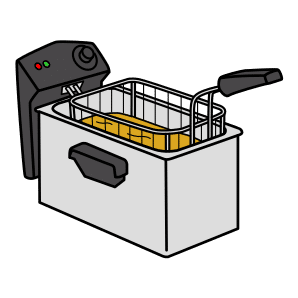
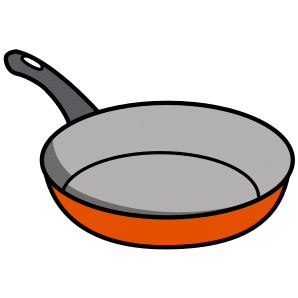
Spelling: fix Spell It third-letter speech, voice the prompt up front
Spell It had Free Play's old bug: completing a word fired the chime and
spoken word the instant the third letter was pressed, cancelling that
letter's speech. Hold a 950ms beat before celebrating, same as Free Play,
so the final letter is heard first.

The prompt now says the word, spells it, and says it again on round start
(speakWordThenSpell) instead of just naming the word — the letters come
with the prompt, not a timed reminder. Tap the picture to replay it all,
like Clock's tappable face, with a gentle pulse for feedback.

Also: add a 🐝 to the Spelling home tile so it shows three icons like the
other games, and swap the "pan" picture from a deep fryer to a proper
frying pan (ARASAAC 2558).

diff --git a/scripts/spelling-page.js b/scripts/spelling-page.js
@@ -547,15 +547,22 @@ function completeSpell(target) {
   hint.stop();
   saveRoundState(SPELL_STATE_KEY, null);
   renderSlots();
-  audio.playChime();
-  speakText(target.toLowerCase(), { rate: 0.85 });
-  showCelebrationEmojis();
-  spawnConfetti();
   session.mutateStats(function(stats) {
     stats.spellCorrect += 1;
     stats.usedSpell = true;
   });
-  resetTimer = window.setTimeout(startSpellRound, 2200);
+  // The third letter was just spoken like the first two. Celebrating right away
+  // would cancel that letter's speech (the child never hears it), so hold a beat
+  // first — the same treatment as Free Play — THEN chime, confetti, and say the
+  // whole word.
+  resetTimer = window.setTimeout(function() {
+    resetTimer = null;
+    audio.playChime();
+    speakText(target.toLowerCase(), { rate: 0.85 });
+    showCelebrationEmojis();
+    spawnConfetti();
+    resetTimer = window.setTimeout(startSpellRound, 2200);
+  }, 950);
 }
 
 function startSpellRound() {
@@ -583,7 +590,9 @@ function startSpellRound() {
   spellPicture.setAttribute('aria-hidden', 'false');
   renderSlots();
   spellHint.textContent = 'Spell the word!';
-  speakText(target.toLowerCase(), { rate: 0.85 });
+  // Say the word, spell it, say it again — the letters come with the prompt, not
+  // a timed reminder. The child can tap the picture to hear it all again.
+  speakWordThenSpell(target);
   hint.reset();
 }
 
@@ -620,6 +629,8 @@ function setMode(next) {
   hint.stop();
   mode = next;
   keyboardEl.dataset.mode = mode;
+  // Only Spell It lets you tap the picture to replay the word + spelling.
+  spellPicture.classList.toggle('spell-picture--speakable', mode === 'spell');
   rememberSessionMode(SPELLING_SESSION_KEY, mode);
   modeBtns.forEach(function(btn) {
     btn.classList.toggle('active', btn.dataset.mode === mode);
@@ -635,6 +646,20 @@ function setMode(next) {
   else if (mode === 'read') enterRead();
   else enterSpell();
 }
+
+// Tap the picture (Spell It only) to hear the word + spelling again, instead of
+// a reminder that repeats on a timer — like Clock's tappable face.
+function replaySpellPrompt() {
+  if (session.isSessionEnded() || mode !== 'spell' || spellTargetIndex < 0) return;
+  speakWordThenSpell(WORDS[spellTargetIndex]);
+  spellPicture.classList.remove('is-speaking');
+  void spellPicture.offsetWidth;
+  spellPicture.classList.add('is-speaking');
+}
+spellPicture.addEventListener('click', replaySpellPrompt);
+spellPicture.addEventListener('animationend', function(ev) {
+  if (ev.animationName === 'spell-tap-pulse') spellPicture.classList.remove('is-speaking');
+});
 
 buildKeyboard();
 modeBtns.forEach(function(btn) {

diff --git a/styles/spelling.css b/styles/spelling.css
@@ -102,6 +102,23 @@ body {
 .spell-picture.is-visible img {
   animation: spell-pop 0.25s ease-out;
 }
+/* Spell It: the picture is tappable to replay the word + spelling. */
+.spell-picture--speakable {
+  cursor: pointer;
+  -webkit-tap-highlight-color: transparent;
+}
+/* Pulse the container (not the img) so this never re-triggers the img's
+   spell-pop reveal animation when the class is toggled off. */
+.spell-picture.is-speaking {
+  animation: spell-tap-pulse 0.45s ease-out;
+}
+@keyframes spell-tap-pulse {
+  0%, 100% { transform: scale(1); }
+  40%      { transform: scale(1.08); }
+}
+@media (prefers-reduced-motion: reduce) {
+  .spell-picture.is-speaking { animation: none; }
+}
 
 .spell-slots {
   display: flex;

diff --git a/data/activities.js b/data/activities.js
@@ -112,7 +112,8 @@ const ACTIVITIES = [
     artClasses: 'game-tile__art game-tile__art--letters',
     artHtml:
       '<span class="game-tile__art__emoji">🔤</span>' +
-      '<span class="game-tile__art__emoji">✏</span>',
+      '<span class="game-tile__art__emoji">✏</span>' +
+      '<span class="game-tile__art__emoji">🐝</span>',
     sessionKey: 'ariaSpellingSession',
     statsKey: 'ariaSpellingStats',
     defaultStats: function() { return createSpellingStats(); }
